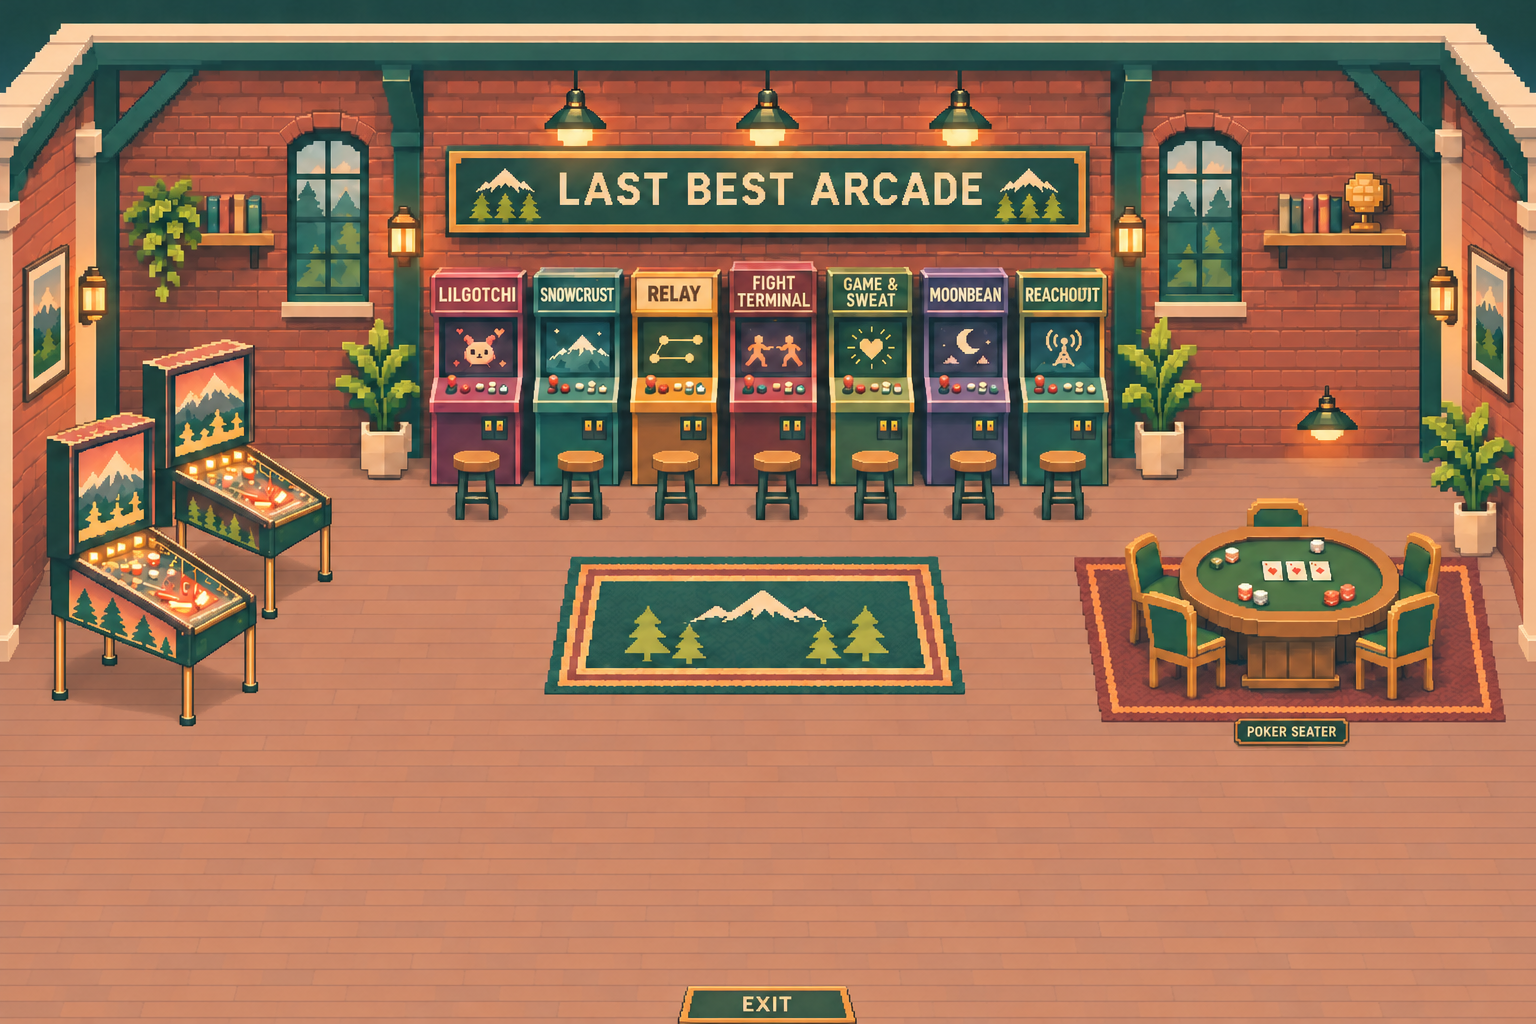
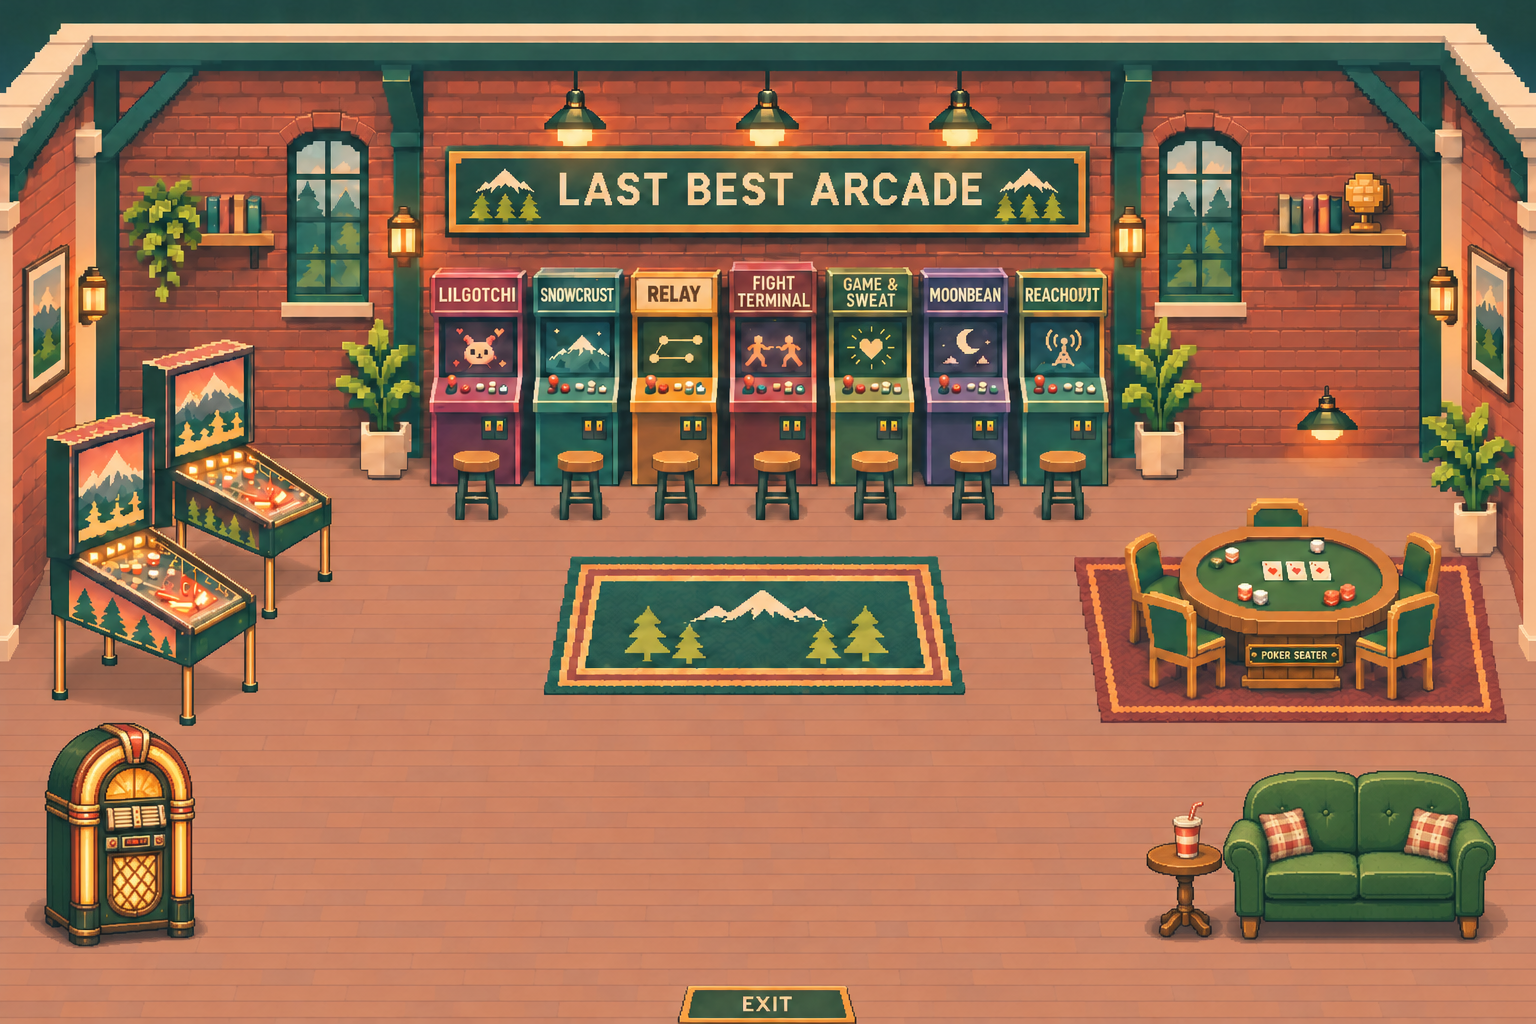
fill out the arcade

diff --git a/eightbit/scenes.js b/eightbit/scenes.js
@@ -23,7 +23,7 @@ export const scenes = {
   arcade: {
     name: 'last best arcade', subtitle: 'quarters in. real world out.', width: 768, height: 512,
     spawn: { x: 384, y: 456 }, bounds: [16, 256, 752, 504], grid: 8,
-    obstacles: [[24,256,144,96], [560,256,180,104]],
+    obstacles: [[24,256,144,96], [560,256,180,104], [20,360,80,116], [572,384,176,88]],
     points: [
       ...[['lilgotchi','meet lilgotchi',240],['snowcrust','play snowcrust',288],['relay','try relay',336],['fight','fight terminal',384],['sweat','mr game and sweat',432],['moonbean','moonbean coffee',480],['reachoutt','reachoutt',528]].map(([id,label,x]) => point(id,label,x,280,`project:${id}`,{hit:[x-22,132,44,128]})),
       point('hidden-cypunk','look beside the pinball',184,320,'find:cypunk',{hit:[172,295,24,32]}),
